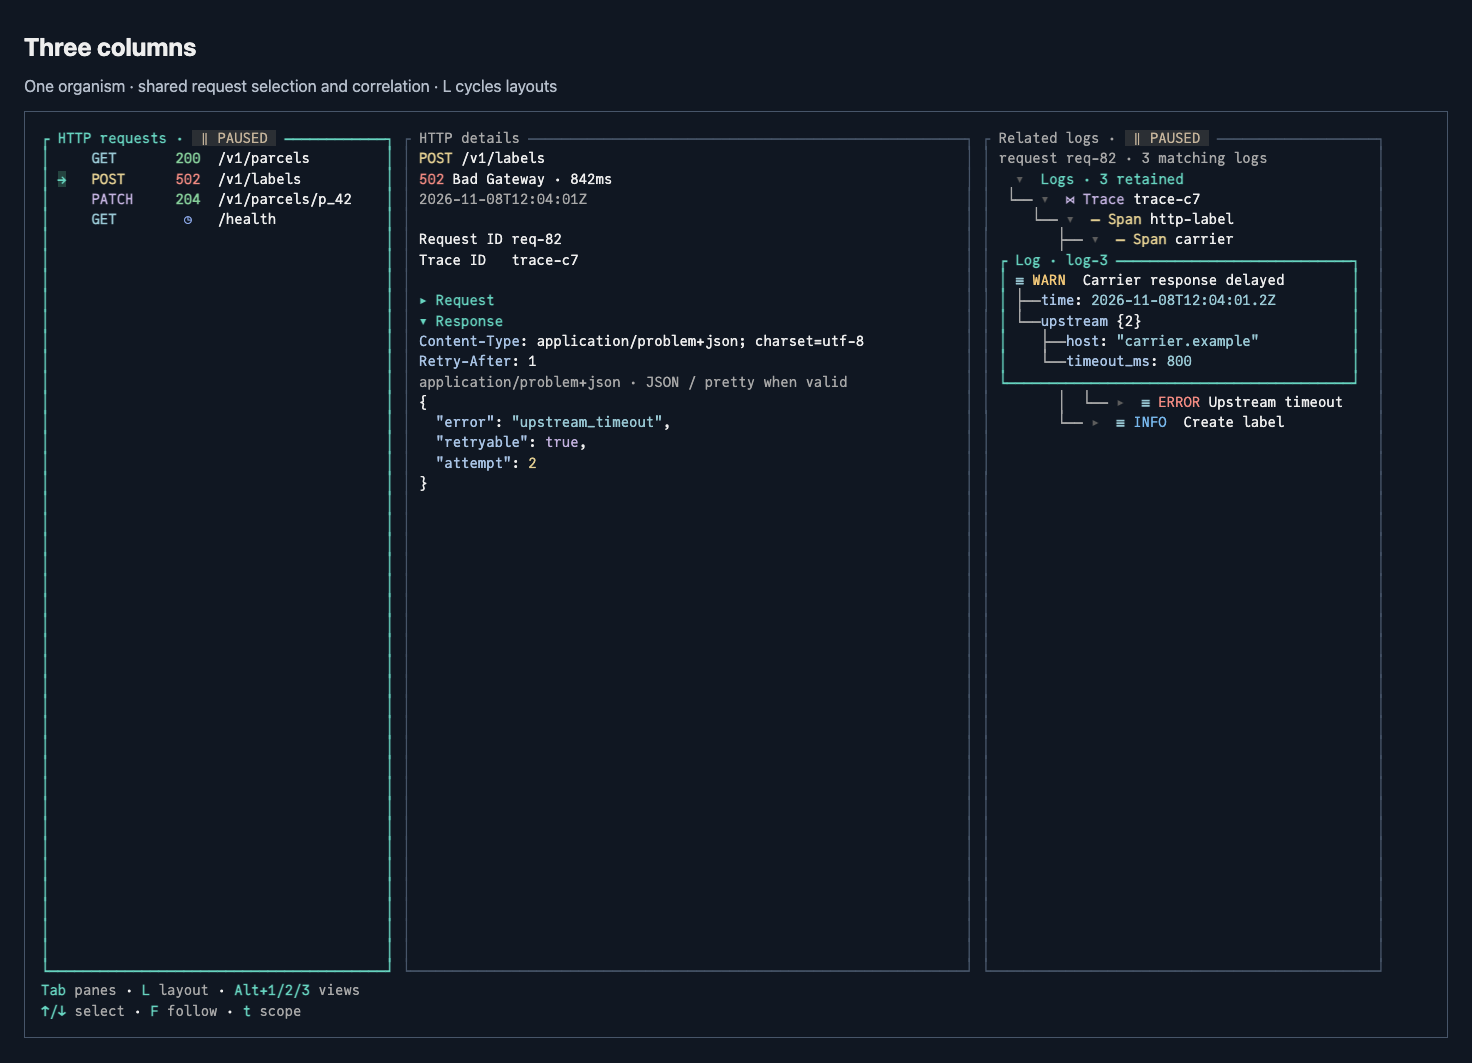
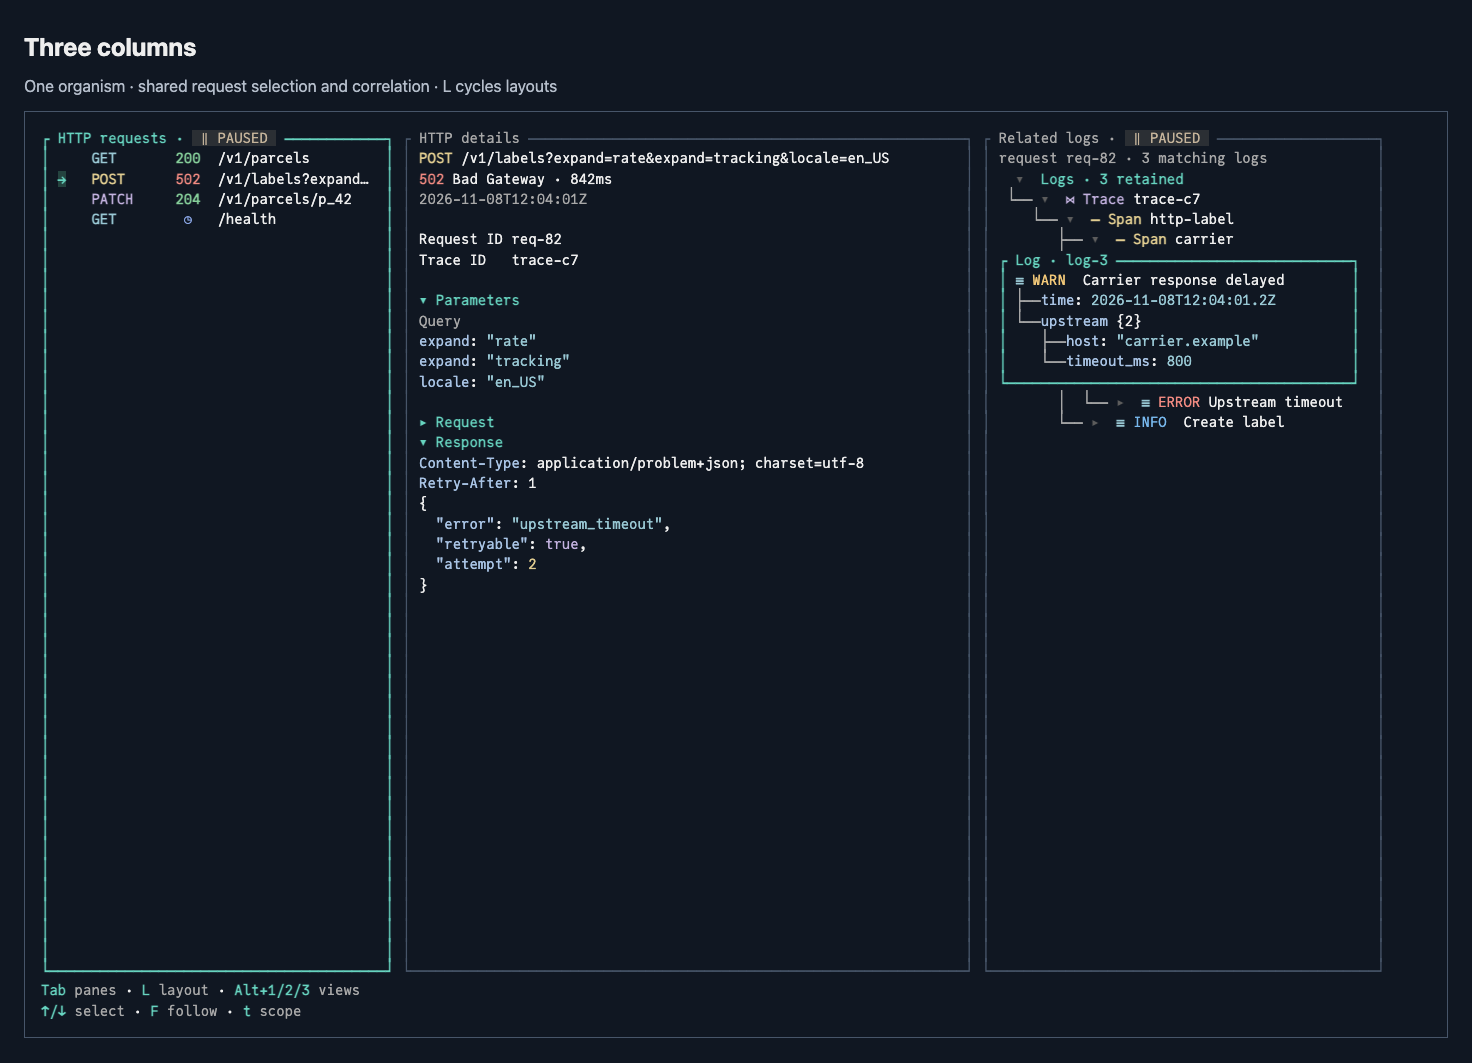
feat(http): expand request parameters and simplify body presentation

diff --git a/collection/http_parameters_test.go b/collection/http_parameters_test.go
@@ -1,0 +1,77 @@
+package collection_test
+
+import (
+	"strings"
+	"testing"
+
+	tea "charm.land/bubbletea/v2"
+	"github.com/charmbracelet/x/ansi"
+	"github.com/lanej/charmed/collection"
+	"github.com/lanej/charmed/theme"
+)
+
+func TestHTTPParametersDecodeAndFoldIndependently(t *testing.T) {
+	m := collection.NewHTTPLog(80, 60, theme.New(theme.Dark))
+
+	record := collection.HTTPExchange{ID: "request", URL: "/labels?expand=rate&expand=tracking&name=Josh+Lane&empty=&quotes=%22%22&escaped=%26%3D#ignored?fake=1", RequestBody: collection.HTTPBody{State: collection.Captured, ContentType: "application/x-www-form-urlencoded", Bytes: []byte("parcel=p_42&service=express")}}
+	if err := m.SetEntries([]collection.HTTPExchange{record}); err != nil {
+		t.Fatal(err)
+	}
+
+	frame := ansi.Strip(m.DetailView())
+	for _, want := range []string{"Parameters", "Query", `expand: "rate"`, `expand: "tracking"`, `name: "Josh Lane"`, `empty: ""`, `quotes: "\"\""`, `escaped: "&="`, "Form", `parcel: "p_42"`, `service: "express"`} {
+		if !strings.Contains(frame, want) {
+			t.Fatal("missing decoded parameter", want, frame)
+		}
+	}
+
+	m.UpdateDetails(tea.KeyPressMsg{Code: '3'})
+
+	if m.ParametersOpen || !m.RequestOpen || !m.ResponseOpen || strings.Contains(ansi.Strip(m.DetailView()), `expand: "rate"`) {
+		t.Fatal("parameter fold affected another section or retained expanded values")
+	}
+
+	m.SetFolding(false)
+	m.UpdateDetails(tea.KeyPressMsg{Code: '3'})
+
+	if !m.ParametersOpen || !strings.Contains(ansi.Strip(m.DetailView()), `expand: "tracking"`) {
+		t.Fatal("foldless parameters hidden")
+	}
+
+	selected, _ := m.Selected()
+	if selected.URL != record.URL || string(selected.RequestBody.Bytes) != string(record.RequestBody.Bytes) {
+		t.Fatal("parameter display mutated observations")
+	}
+}
+
+func TestHTTPParametersPreserveMalformedSourceAndCaptureBoundaries(t *testing.T) {
+	for _, example := range []struct {
+		name, query string
+		body        collection.HTTPBody
+		want        string
+	}{
+		{name: "invalid escape", query: "ok=1&bad=%ZZ", want: "ok=1&bad=%ZZ"},
+		{name: "semicolon", query: "ok=1;bad=2", want: "ok=1;bad=2"},
+		{name: "truncated form", body: collection.HTTPBody{State: collection.Truncated, ContentType: "application/x-www-form-urlencoded", Bytes: []byte("secret=partial")}},
+		{name: "redacted form", body: collection.HTTPBody{State: collection.Redacted, ContentType: "application/x-www-form-urlencoded", Bytes: []byte("secret=private")}},
+		{name: "oversized form", body: collection.HTTPBody{State: collection.Captured, ContentType: "application/x-www-form-urlencoded", Bytes: []byte("secret=" + strings.Repeat("a", collection.DefaultBodyPreviewBytes))}},
+		{name: "unsupported charset", body: collection.HTTPBody{State: collection.Captured, ContentType: "application/x-www-form-urlencoded; charset=latin1", Bytes: []byte("secret=unknown")}},
+		{name: "encoded form", body: collection.HTTPBody{State: collection.Captured, ContentType: "application/x-www-form-urlencoded", Encoding: "gzip", Bytes: []byte("secret=compressed")}},
+	} {
+		t.Run(example.name, func(t *testing.T) {
+			m := collection.NewHTTPLog(80, 40, theme.New(theme.Dark))
+			if err := m.SetEntries([]collection.HTTPExchange{{ID: "request", URL: "/?" + example.query, RequestBody: example.body}}); err != nil {
+				t.Fatal(err)
+			}
+
+			frame := ansi.Strip(m.DetailView())
+			if example.want != "" {
+				if !strings.Contains(frame, "Invalid parameter encoding") || !strings.Contains(frame, example.want) {
+					t.Fatal("malformed source lost", frame)
+				}
+			} else if strings.Contains(frame, "Parameters") {
+				t.Fatal("incomplete or unavailable capture decoded as parameters", frame)
+			}
+		})
+	}
+}

diff --git a/story/logs.go b/story/logs.go
@@ -73,7 +73,7 @@ func LogFixture() ([]collection.HTTPExchange, []collection.LogRecord) {
 	at := time.Date(2026, 11, 8, 12, 4, 0, 0, time.UTC)
 	requests := []collection.HTTPExchange{
 		{ID: "http-1", RequestID: "req-81", TraceID: "trace-c7", Time: at, Method: "GET", URL: "https://api.example.test/v1/parcels", StatusCode: 200, Completed: true, Duration: 12 * time.Millisecond, DurationKnown: true, ResponseHeaders: http.Header{"Content-Type": {"application/json"}}, ResponseBody: collection.HTTPBody{State: collection.Captured, ContentType: "application/json", Bytes: []byte(`{"parcels":[],"count":0}`)}},
-		{ID: "http-2", RequestID: "req-82", TraceID: "trace-c7", Time: at.Add(time.Second), Method: "POST", URL: "https://api.example.test/v1/labels", StatusCode: 502, Completed: true, Duration: 842 * time.Millisecond, DurationKnown: true, RequestHeaders: http.Header{"Content-Type": {"application/json"}, "X-Request-Id": {"req-82"}}, ResponseHeaders: http.Header{"Content-Type": {"application/problem+json; charset=utf-8"}, "Retry-After": {"1"}}, RequestBody: collection.HTTPBody{State: collection.Captured, ContentType: "application/json", Bytes: []byte(`{"parcel_id":"p_42","service":"express"}`)}, ResponseBody: collection.HTTPBody{State: collection.Captured, ContentType: "application/problem+json; charset=utf-8", Bytes: []byte(`{"error":"upstream_timeout","retryable":true,"attempt":2}`)}},
+		{ID: "http-2", RequestID: "req-82", TraceID: "trace-c7", Time: at.Add(time.Second), Method: "POST", URL: "https://api.example.test/v1/labels?expand=rate&expand=tracking&locale=en_US", StatusCode: 502, Completed: true, Duration: 842 * time.Millisecond, DurationKnown: true, RequestHeaders: http.Header{"Content-Type": {"application/json"}, "X-Request-Id": {"req-82"}}, ResponseHeaders: http.Header{"Content-Type": {"application/problem+json; charset=utf-8"}, "Retry-After": {"1"}}, RequestBody: collection.HTTPBody{State: collection.Captured, ContentType: "application/json", Bytes: []byte(`{"parcel_id":"p_42","service":"express"}`)}, ResponseBody: collection.HTTPBody{State: collection.Captured, ContentType: "application/problem+json; charset=utf-8", Bytes: []byte(`{"error":"upstream_timeout","retryable":true,"attempt":2}`)}},
 		{ID: "http-3", RequestID: "req-83", TraceID: "trace-d1", Time: at.Add(2 * time.Second), Method: "PATCH", URL: "https://api.example.test/v1/parcels/p_42", StatusCode: 204, Completed: true, Duration: 8 * time.Millisecond, DurationKnown: true, ResponseBody: collection.HTTPBody{State: collection.Captured}},
 		{ID: "http-4", Time: at.Add(3 * time.Second), Method: "GET", URL: "https://api.example.test/health", Completed: false},
 	}
@@ -221,7 +221,7 @@ func httpLogStory(e Environment) (runtime.Scene, error) {
 		}
 
 		if m.Folding {
-			hints = append(hints, text.KeyHint("1/2", "sections", t))
+			hints = append(hints, text.KeyHint("1/2/3", "sections", t))
 		}
 
 		return m.View() + "\n" + strings.Join(hints, " · ")

diff --git a/collection/http_parameters.go b/collection/http_parameters.go
@@ -1,0 +1,72 @@
+package collection
+
+import (
+	"mime"
+	"net/url"
+	"slices"
+	"strconv"
+	"strings"
+
+	"github.com/lanej/charmed/text"
+)
+
+// Parameters are decoded from supplied observations; route parameters require
+// application routing knowledge and are not inferred from path segments.
+func (m *HTTPLog) parameterView(record HTTPExchange, width int) string {
+	target, _, _ := strings.Cut(record.URL, "#")
+	_, query, _ := strings.Cut(target, "?")
+	form := ""
+	body := bodyWithContentType(record.RequestBody, record.RequestHeaders)
+	media, params, err := mime.ParseMediaType(body.ContentType)
+
+	charset := strings.ToLower(params["charset"])
+	if err == nil && media == "application/x-www-form-urlencoded" && body.State == Captured && (body.Encoding == "" || strings.EqualFold(body.Encoding, "identity")) && (charset == "" || charset == "utf-8" || charset == "us-ascii") && len(body.Bytes) <= max(1, m.BodyPreviewBytes) {
+		form = string(body.Bytes)
+	}
+
+	if query == "" && form == "" {
+		return ""
+	}
+
+	heading := m.Theme.Heading().Render("Parameters")
+	if m.Folding {
+		if marker := text.Disclosure("", m.ParametersOpen, m.Theme, m.Symbols); marker != "" {
+			heading = marker + " " + heading
+		}
+	}
+
+	if m.Folding && !m.ParametersOpen {
+		return heading
+	}
+
+	rows := []string{heading}
+
+	for _, source := range []struct{ name, raw string }{{"Query", query}, {"Form", form}} {
+		if source.raw == "" {
+			continue
+		}
+
+		rows = append(rows, m.Theme.Subtle().Render(source.name))
+
+		values, parseErr := url.ParseQuery(source.raw)
+		if parseErr != nil {
+			rows = append(rows, m.Theme.Subtle().Render("Invalid parameter encoding · captured source"), text.Inline(source.raw))
+			continue
+		}
+
+		keys := make([]string, 0, len(values))
+		for key := range values {
+			keys = append(keys, key)
+		}
+
+		slices.Sort(keys)
+
+		for _, key := range keys {
+			for _, value := range values[key] {
+				rows = append(rows, hangingWrap(logStyle(m.Theme, m.Theme.Syntax.Name).Render(text.Inline(key))+": ", logStyle(m.Theme, m.Theme.Syntax.String).Render(text.Inline(strconv.Quote(value))), width))
+			}
+		}
+	}
+
+	return strings.Join(rows, "\n")
+}

diff --git a/collection/http_log.go b/collection/http_log.go
@@ -51,6 +51,7 @@ type HTTPLog struct {
 	Limit, BodyPreviewBytes          int
 	Follow, Raw                      bool
 	RequestOpen, ResponseOpen        bool
+	ParametersOpen                   bool
 	records                          []HTTPExchange
 	selectedID                       string
 	listWidth, height                int
@@ -60,7 +61,7 @@ type HTTPLog struct {
 }
 
 func NewHTTPLog(width, height int, t theme.Theme) *HTTPLog {
-	m := &HTTPLog{Theme: t, Limit: DefaultLogLimit, BodyPreviewBytes: DefaultBodyPreviewBytes, Follow: true, URLFormat: text.PathAndQuery, Folding: true, ShowScrollbar: true, RequestOpen: true, ResponseOpen: true}
+	m := &HTTPLog{Theme: t, Limit: DefaultLogLimit, BodyPreviewBytes: DefaultBodyPreviewBytes, Follow: true, URLFormat: text.PathAndQuery, Folding: true, ShowScrollbar: true, RequestOpen: true, ResponseOpen: true, ParametersOpen: true}
 	m.Table = NewDenseTable(nil, nil, max(1, width), max(1, height), t)
 	m.Details = NewViewport("", width, height)
 	m.Resize(width, height)
@@ -296,7 +297,7 @@ func (m *HTTPLog) scrollbarWidth() int {
 func (m *HTTPLog) SetFolding(enabled bool) {
 	m.Folding = enabled
 	if !enabled {
-		m.RequestOpen, m.ResponseOpen = true, true
+		m.RequestOpen, m.ResponseOpen, m.ParametersOpen = true, true, true
 	}
 
 	m.refreshDetails(false)
@@ -358,6 +359,16 @@ func (m *HTTPLog) UpdateDetails(msg tea.Msg) tea.Cmd {
 			m.refreshDetails(false)
 
 			return nil
+		case "3":
+			if !m.Folding {
+				return nil
+			}
+
+			m.ParametersOpen = !m.ParametersOpen
+			m.refreshDetails(false)
+
+			return nil
+
 		case "2":
 			if !m.Folding {
 				return nil
@@ -496,6 +507,10 @@ func (m *HTTPLog) refreshDetails(reset bool) {
 	}
 
 	rows = append(rows, "")
+
+	if parameters := m.parameterView(record, width); parameters != "" {
+		rows = append(rows, parameters, "")
+	}
 
 	for _, part := range []struct {
 		name    string

diff --git a/collection/http_body.go b/collection/http_body.go
@@ -80,7 +80,7 @@ func (b HTTPBody) View(raw bool, limit int, t theme.Theme) string {
 
 	language := text.ContentLanguage(b.ContentType)
 
-	media, params, parseErr := mime.ParseMediaType(b.ContentType)
+	_, params, parseErr := mime.ParseMediaType(b.ContentType)
 	if charset := strings.ToLower(params["charset"]); charset != "" && charset != "utf-8" && charset != "us-ascii" {
 		return bodySummary(preview, len(b.Bytes), "unsupported charset "+text.Inline(charset), notices, raw, t)
 	}
@@ -118,21 +118,12 @@ func (b HTTPBody) View(raw bool, limit int, t theme.Theme) string {
 		notices = append(notices, "[JSON formatting depth limit: showing captured source]")
 	}
 
-	mode := "highlighted source"
-	if raw {
-		mode = "raw captured source"
-	} else if language == "json" {
-		mode = "JSON / pretty when valid"
-	}
-
-	heading := t.Subtle().Render(text.Inline(media) + " · " + mode)
-
 	content := text.Syntax(source, language, t)
 	if len(notices) > 0 {
 		content += "\n" + t.Subtle().Render(strings.Join(notices, " "))
 	}
 
-	return heading + "\n" + content
+	return content
 }
 
 func bodySummary(preview []byte, total int, label string, notices []string, raw bool, t theme.Theme) string {

diff --git a/collection/log_inspector_test.go b/collection/log_inspector_test.go
@@ -22,7 +22,7 @@ func TestBodyCaptureStatesContentTypesAndRawPreservation(t *testing.T) {
 	pretty := ansi.Strip(body.View(false, 4096, palette))
 
 	raw := ansi.Strip(body.View(true, 4096, palette))
-	if !strings.Contains(pretty, "\n  \"n\": 1") || !strings.Contains(raw, string(original)) || !bytes.Equal(body.Bytes, original) {
+	if !strings.HasPrefix(pretty, "{") || !strings.Contains(pretty, "\n  \"n\": 1") || !strings.Contains(raw, string(original)) || !bytes.Equal(body.Bytes, original) {
 		t.Fatal("pretty/raw lost captured bytes", pretty, raw)
 	}
 

diff --git a/story/logs_test.go b/story/logs_test.go
@@ -10,7 +10,7 @@ import (
 )
 
 func TestLogInspectorSavedPanesAreNativeAndDeterministic(t *testing.T) {
-	for pane, expected := range map[string]string{"requests": "HTTP requests", "http": "upstream_timeout", "logs": "Carrier"} {
+	for pane, expected := range map[string]string{"requests": "HTTP requests", "http": "Parameters", "logs": "Carrier"} {
 		for _, mode := range []theme.Mode{theme.Dark, theme.Light, theme.Mono} {
 			config := story.DefaultConfig()
 			config.Columns, config.Rows = 40, 24

diff --git a/pattern/log_inspector.go b/pattern/log_inspector.go
@@ -357,7 +357,7 @@ func (m *LogInspector) View() string {
 	case httpPane:
 		help += text.KeyHint(m.palette.Glyph(theme.GlyphUp)+"/"+m.palette.Glyph(theme.GlyphDown), "scroll", m.palette)
 		if m.HTTP.Folding {
-			help += " · " + text.KeyHint("1/2", "sections", m.palette)
+			help += " · " + text.KeyHint("1/2/3", "sections", m.palette)
 		}
 
 		if m.HTTP.CanToggleRaw() {

diff --git a/docs/log-inspector.md b/docs/log-inspector.md
@@ -8,7 +8,7 @@ Requests initially follow the latest arrival. Navigating older records pauses fo
 
 Exact request-ID matching is the default correlation scope. `t` switches to exact trace-ID matching when the selected request has a trace ID. Missing identifiers are shown as unavailable; an available identifier without matches is shown as no matching logs. Neither timestamps nor message text establish relationships. The tree supports grouped traces and spans as well as flat entries (`g`), with expandable structured fields. Missing, cyclic or conflicting span parents remain visible as unresolved hierarchy. Top-level fields retain identity by name and duplicate occurrence; array elements use their positions. Supported nested structures are `map[string]any` and `[]any`; unsupported Go types are labeled by type rather than invoking arbitrary formatting methods. Field depth, node count, and value preview limits prevent unbounded expansion; omissions are marked.
 
-The HTTP molecule uses method colors as capability categories and status-code colors as response classes. Extension methods keep their literal labels; unavailable and invalid codes never become successful responses. Pending exchanges remain distinct from completed observations. `Tab` moves between panes, and `Alt+1`, `Alt+2`, `Alt+3` select requests, HTTP details, and related logs. Wide terminals show all three regions; narrow terminals show one region at a time while retaining browsing state. In the standalone HTTP molecule, `Tab` switches list/detail keyboard routing. In details, `1` and `2` expand or collapse request and response sections; `r` switches pretty/raw rendering when captured bytes are available.
+The HTTP molecule uses method colors as capability categories and status-code colors as response classes. Extension methods keep their literal labels; unavailable and invalid codes never become successful responses. Pending exchanges remain distinct from completed observations. `Tab` moves between panes, and `Alt+1`, `Alt+2`, `Alt+3` select requests, HTTP details, and related logs. Wide terminals show all three regions; narrow terminals show one region at a time while retaining browsing state. In the standalone HTTP molecule, `Tab` switches list/detail keyboard routing. In details, `1` and `2` expand or collapse request and response sections; `3` toggles parameters independently; `r` switches pretty/raw rendering when captured bytes are available.
 
 `HTTPBody.State` distinguishes `NotCaptured`, `Captured`, `Truncated`, and `Redacted`. A captured zero-byte body is known empty. `ContentType` selects a lexer; if omitted, the molecule uses the corresponding captured `Content-Type` header. JSON, structured `+json`, XML and `+xml`, HTML, CSS, JavaScript, URL-encoded forms, and plain text are supported. Valid JSON opens formatted; malformed or excessively deep JSON retains captured source with a notice. Binary, unsupported-charset, or encoded content shows a byte/encoding summary, with a hexadecimal preview in raw mode. There is no implicit decompression. `HTTPBody.Encoding` describes the submitted bytes, which may differ from wire headers when a caller has decoded them. Pretty/raw views do not mutate captured bytes.
 
@@ -43,3 +43,5 @@ Focused leaves use single-line native node geometry by default and measure the n
 Timelines accept caller-supplied grouping criteria, for example `requests.SetTimelineGrouping(collection.GroupByService, collection.GroupByEndpoint)`. `HTTPExchange.Service` is an optional caller-provided service name; endpoint grouping reads the captured URL authority without resolving or contacting it. Built-in criteria also include `GroupByHost` and `GroupByPort`. Port grouping normalizes explicit numeric ports and infers 80/443 for absolute HTTP/HTTPS URLs; absent or invalid ports remain unavailable. These are URL destinations, not observations of an actual socket peer. Supply any pure `HTTPGroup` callback to group by application metadata, and compose multiple criteria in order. Group order is first-seen, with ingestion order retained within each group. Keyboard navigation follows the grouped display; source records and selected IDs stay unchanged. Clearing criteria restores the ungrouped order. Short viewports retain the selected request and repeat its group heading when space permits. The native fixture accepts `--timeline --timeline-group-by service,endpoint`; the saved **Timeline grouped** variant shows three services on the same clock.
 
 The correlated inspector offers `InspectorSidebar` (requests beside stacked details/logs), `InspectorTimeline` (full-width timeline above details/logs), `InspectorColumns` (three columns), and `InspectorFocused` (one focused pane). `InspectorAuto` preserves the responsive sidebar default. Pass `Layout`, `TimelineGroups` and the explicit observation `TimelineNow` through `LogInspectorOptions`, then call `SetLayout` to change arrangements without replacing datasets, selected request/log IDs, correlation scope, native styles/key maps, or body modes. Resizing may clamp native scroll offsets. `Layout()` reports the preferred preset and `ActiveLayout()` reports the arrangement that fits: columns and timeline can fall back to sidebar, then to a single focused pane. A focused timeline keeps the timeline request presentation. `L` cycles layouts; `Tab` and `Alt+1/2/3` retain pane navigation. The native fixture accepts `--log-layout timeline --timeline-group-by service,endpoint --detached-log-details`, and the guide saves each layout for comparison.
+
+Request parameters decode URL query strings and complete captured `application/x-www-form-urlencoded` bodies into key/value rows. Repeated values remain separate, empty values are explicit, and malformed encodings show the captured source instead of a partial parse. Form decoding respects the body preview byte limit, charset, encoding and capture state; unsupported or incomplete bodies retain the existing body presentation. Route parameters require application routing knowledge and are not inferred. Disabling folds shows parameters regardless of prior fold state. Body syntax and formatting are visible directly, without a mode caption; capture, truncation and invalid-source notices remain explicit.
